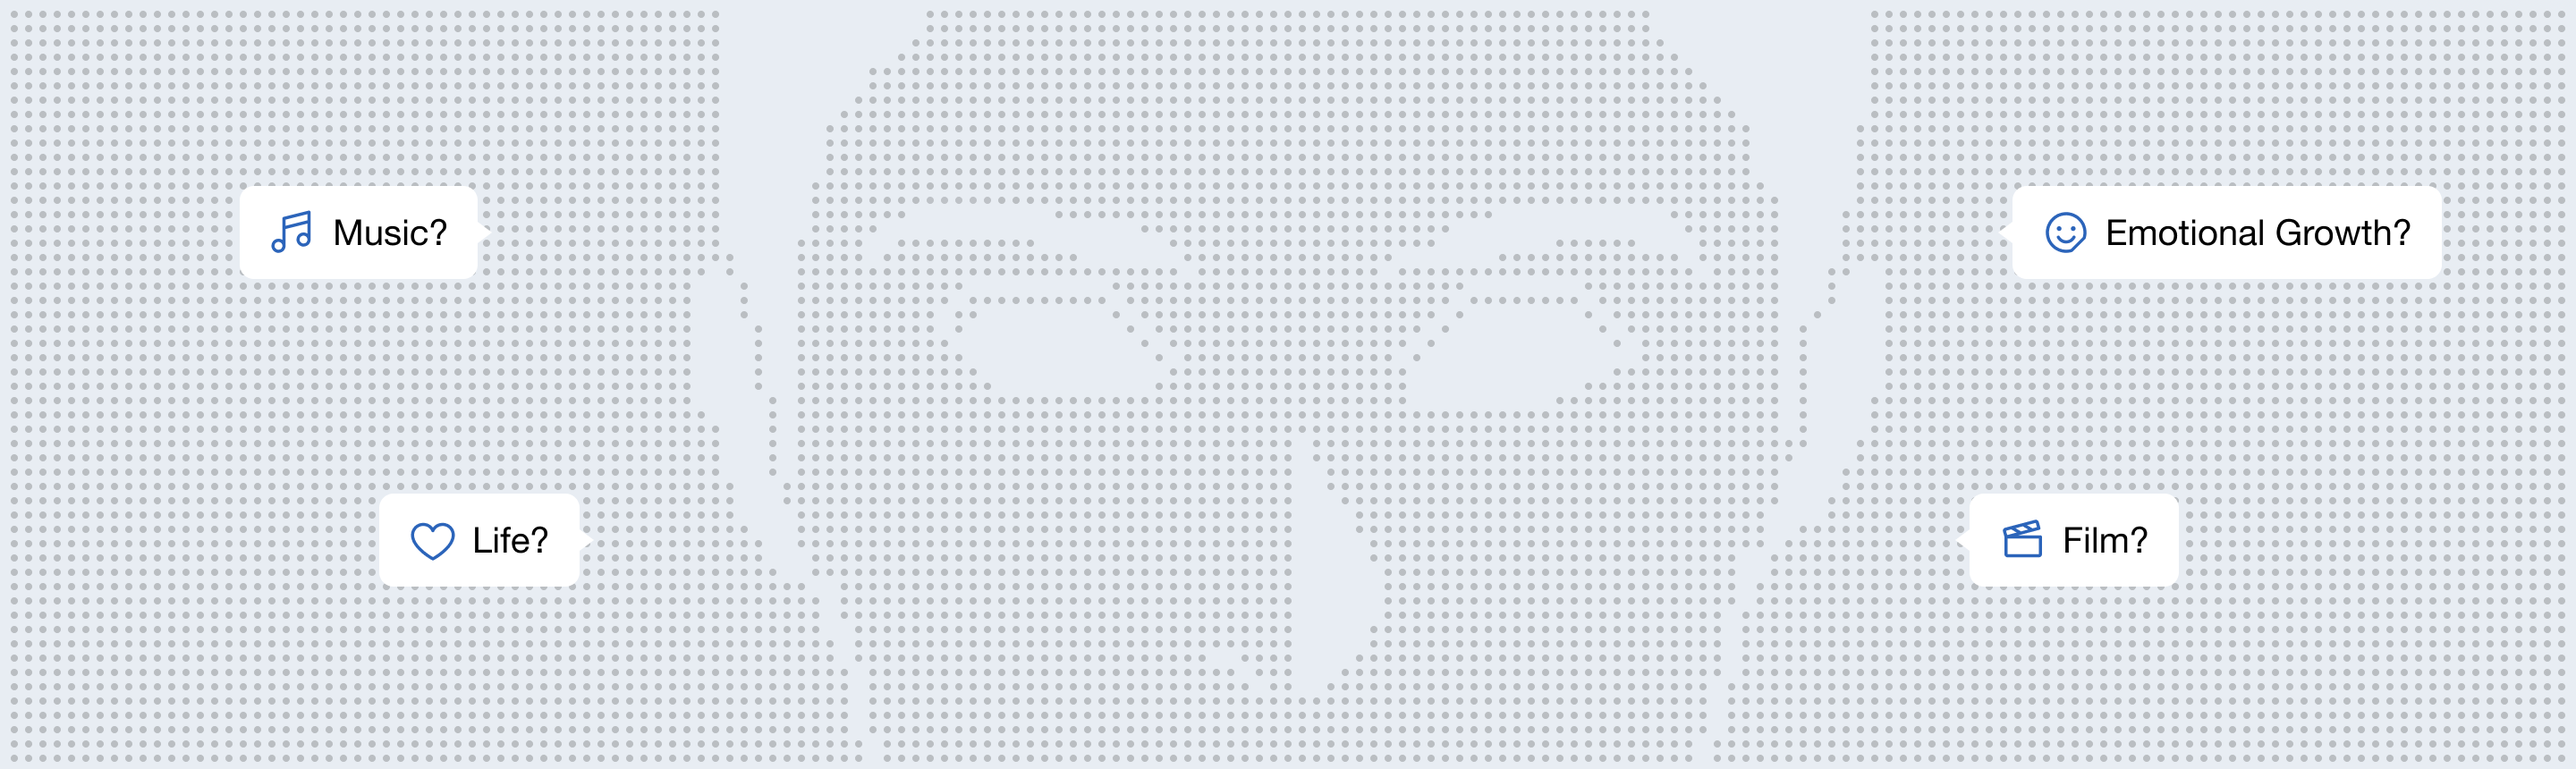
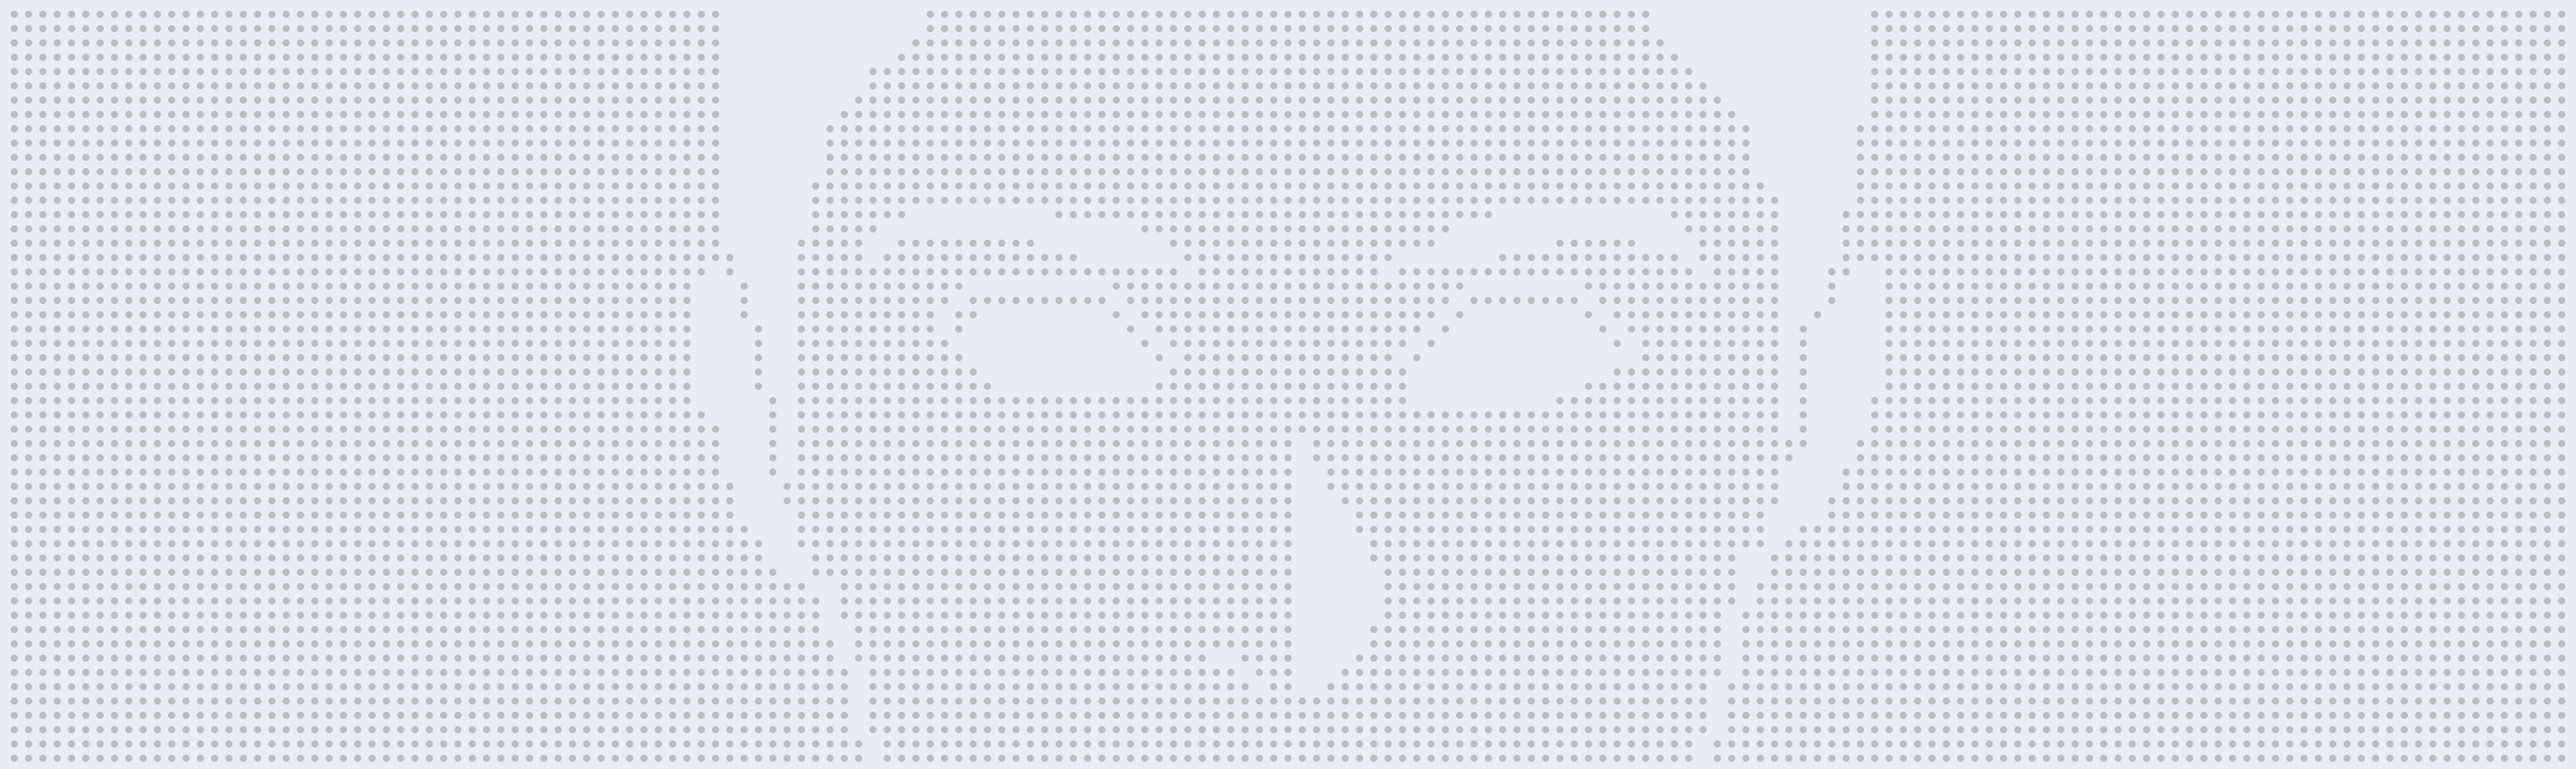
pip bubbles

diff --git a/src/app/paper/page.js b/src/app/paper/page.js
@@ -4,13 +4,14 @@ import React, { Suspense, useState, useRef, useEffect } from "react";
 import { useSearchParams, useRouter } from "next/navigation";
 import gsap from "gsap";
 import Image from "next/image";
+import CustomButton from "@/components/custom-button";
 
 const Content = () => {
   const router = useRouter();
   const searchParams = useSearchParams();
 
   const [currentTab, setCurrentTab] = useState(
-    searchParams.get("tab") || "features",
+    searchParams.get("tab") || "features"
   );
   const [displayedTab, setDisplayedTab] = useState(currentTab);
 
@@ -52,45 +53,47 @@ const Content = () => {
 
   return (
     <div className="flex" style={{ height: "calc(100vh - 100px)" }}>
-      <div className="w-1/6 ">
-        <div className="flex flex-col p-4 text-[12px] text-cblack-100 gap-1 mt-12 border-t border-b border-cblack-25">
-          <h2 className="font-bold">AEJO AGENT TERMINAL</h2>
-          <p className="opacity-50">UPDATED: nov 26, 2024</p>
-          <p className="opacity-50">v1.4</p>
+      <div className="w-1/6 flex flex-col justify-between">
+        <div>
+          <div className="flex flex-col p-4 text-[12px] text-cblack-100 gap-1 mt-12 border-t border-b border-cblack-25">
+            <h2 className="font-bold">AEJO AGENT TERMINAL</h2>
+            <p className="opacity-50">UPDATED: nov 26, 2024</p>
+            <p className="opacity-50">v1.4</p>
+          </div>
+
+          <ul>
+            <li
+              onClick={() => handleTabChange("features")}
+              className={`flex cursor-pointer text-cblack-100 p-4 border-b border-cblack-25 gap-2 ${
+                currentTab === "features" ? "font-bold" : ""
+              }`}
+            >
+              <span className="opacity-30">01</span>
+              <p className="text-cblack-100">Features</p>
+            </li>
+            <li
+              onClick={() => handleTabChange("model")}
+              className={`flex cursor-pointer text-cblack-100 p-4 border-b border-cblack-25 gap-2 ${
+                currentTab === "model" ? "font-bold" : ""
+              }`}
+            >
+              <span className="opacity-30">02</span>
+              <p className="text-cblack-100">Model</p>
+            </li>
+            <li
+              onClick={() => handleTabChange("monitor")}
+              className={`flex cursor-pointer text-cblack-100 p-4 border-b border-cblack-25 gap-2 ${
+                currentTab === "monitor" ? "font-bold" : ""
+              }`}
+            >
+              <span className="opacity-30">03</span>
+              <p className="text-cblack-100">Monitor</p>
+            </li>
+          </ul>
         </div>
 
-        <ul>
-          <li
-            onClick={() => handleTabChange("features")}
-            className={`flex cursor-pointer text-cblack-100 p-4 border-b border-cblack-25 gap-2 ${
-              currentTab === "features" ? "font-bold" : ""
-            }`}
-          >
-            <span className="opacity-30">01</span>
-            <p className="text-cblack-100">Features</p>
-          </li>
-          <li
-            onClick={() => handleTabChange("model")}
-            className={`flex cursor-pointer text-cblack-100 p-4 border-b border-cblack-25 gap-2 ${
-              currentTab === "model" ? "font-bold" : ""
-            }`}
-          >
-            <span className="opacity-30">02</span>
-            <p className="text-cblack-100">Model</p>
-          </li>
-          <li
-            onClick={() => handleTabChange("monitor")}
-            className={`flex cursor-pointer text-cblack-100 p-4 border-b border-cblack-25 gap-2 ${
-              currentTab === "monitor" ? "font-bold" : ""
-            }`}
-          >
-            <span className="opacity-30">03</span>
-            <p className="text-cblack-100">Monitor</p>
-          </li>
-        </ul>
-        <div className="text-black">
-          
-          
+        <div className="text-black p-5 border-t border-cblack-25">
+          <CustomButton text="TWITTER" withIcon={true} href="/" />
         </div>
       </div>
 
@@ -135,9 +138,7 @@ const Content = () => {
                 </div>
               </div>
               <div className="flex w-full">
-                <div className="w-1/2 bg-cblack-25">
-                  {/*  */}
-                </div>
+                <div className="w-1/2 bg-cblack-25">{/*  */}</div>
                 <div className="w-1/2 bg-cblack-25 border-l border-cblack-35">
                   <button
                     className="group flex flex-col w-full p-8 justify-center h-full text-start items-start"

diff --git a/src/components/hero/index.js b/src/components/hero/index.js
@@ -1,10 +1,50 @@
 import React from "react";
 import { Button } from "../ui/button";
 import Image from "next/image";
+import Bubble from "../bubble";
+
+const bubbles = [
+  {
+    imageSrc: "/icons/MusicNotes.svg",
+    text: "Music?",
+    type: "left",
+    position: { top: "25%", left: "16%" },
+  },
+  {
+    imageSrc: "/icons/Heart.svg",
+    text: "Life?",
+    type: "right",
+    position: { top: "50%", right: "18%" },
+  },
+  {
+    imageSrc: "/icons/SmileySticker.svg",
+    text: "Emotional Growth?",
+    type: "right",
+    position: { top: "25%", right: "10%" },
+  },
+  {
+    imageSrc: "/icons/FilmSlate.svg",
+    text: "Film?",
+    type: "left",
+    position: { top: "50%", left: "20%" },
+  },
+];
 
 const Hero = () => {
   return (
-    <div className="flex flex-col items-center justify-center text-center text-black">
+    <div className="relative flex flex-col items-center justify-center text-center text-black">
+      <div className="absolute top-0 right-0 z-10 w-full h-[400px]">
+        {bubbles.map((bubble, index) => (
+          <Bubble
+            key={index}
+            imageSrc={bubble.imageSrc}
+            text={bubble.text}
+            type={bubble.type}
+            position={bubble.position}
+          />
+        ))}
+      </div>
+
       <div>
         <Image
           src="/images/hero.png"
@@ -13,16 +53,21 @@ const Hero = () => {
           height={400}
         />
       </div>
+
       <div className="relative">
-        <Button className="absolute -top-[30px] left-1/2 transform -translate-x-1/2 px-9 py-6 text-white rounded-sm">
-          <Image
-            src="/icons/ChatTeardrop.svg"
-            alt="Coin Vertical Logo"
-            width={20}
-            height={20}
-          />
-          CHAT NOW
-        </Button>
+        {/* <div className=" absolute -top-[30px] left-1/2 transform -translate-x-1/2 p-1 rounded-sm bg-blue-600"> */}
+        <div className=" absolute -top-[30px] left-1/2 transform -translate-x-1/2 p-1 rounded-sm ">
+          <Button className="  px-9 py-6 text-white rounded-sm">
+            <Image
+              src="/icons/ChatTeardrop.svg"
+              alt="Coin Vertical Logo"
+              width={20}
+              height={20}
+            />
+            CHAT NOW
+          </Button>
+        </div>
+
         <h1 className="text-4xl uppercase font-bold mb-2 py-24">
           The AI That Thinks Along Side Us All
         </h1>

diff --git a/src/components/bubble/index copy.js b/src/components/bubble/index copy.js
@@ -1,0 +1,45 @@
+"use client"
+import React, { useEffect, useState } from "react";
+
+const Bubble = ({ 
+  imageSrc, 
+  text, 
+  type = "left", 
+  position = { top: "50%", left: "50%" } 
+}) => {
+  const tailStyle = type === "left" 
+    ? "right-[-8px] top-1/2 -translate-y-1/2 border-y-[10px] border-y-transparent border-l-[10px] border-l-[#fff]"
+    : "left-[-8px] top-1/2 -translate-y-1/2 border-y-[10px] border-y-transparent border-r-[10px] border-r-[#fff]";
+
+  const [animationOffset, setAnimationOffset] = useState({ top: 0, left: 0 });
+
+  useEffect(() => {
+    const animate = () => {
+      setAnimationOffset({
+        top: Math.random() * 2 - 1, 
+        left: Math.random() * 2 - 1, 
+      });
+    };
+
+    const interval = setInterval(animate, 1000);
+    return () => clearInterval(interval); 
+  }, []);
+
+  return (
+    <div
+      className="absolute flex items-center gap-2 px-4 py-2 bg-[#fff] text-cblack-100 rounded-lg shadow-md transition-transform duration-1000 ease-in-out"
+      style={{
+        ...position,
+        transform: `translate(${animationOffset.left}px, ${animationOffset.top}px)`,
+      }}
+    >
+      <img src={imageSrc} alt="Bubble Icon" className="w-6 h-6" />
+
+      <span>{text}</span>
+
+      <div className={`absolute ${tailStyle}`}></div>
+    </div>
+  );
+};
+
+export default Bubble;

diff --git a/src/components/custom-button/index.js b/src/components/custom-button/index.js
@@ -1,11 +1,35 @@
-// import React from 'react'
+import React from "react";
+import Link from "next/link";
+import Image from "next/image";
 
-// const CustomButton = () => {
-//   return (
-//     <div>
-      
-//     </div>
-//   )
-// }
+const CustomButton = ({
+  text,
+  type = "white",
+  withIcon = false,
+  href = "#",
+}) => {
+  const buttonClass =
+    type === "dark"
+      ? "bg-inherit text-white "
+      : "bg-inherit text-black  border border-gray-300 hover:border-gray-400 hover:text-gray-800 focus:outline-none focus:ring-2 focus:ring" ;
 
-// export default CustomButton
+  return (
+    <Link
+      href={href}
+      className={`inline-flex w-full items-center justify-center px-2 py-1 rounded-md font-medium text-[12px] transition-all duration-300 gap-2 ${buttonClass}`}
+    >
+      {text}
+      {withIcon && (
+        <Image
+          src="/icons/ArrowUpRight.svg"
+          alt="Arrow Icon"
+          className=""
+          width={14}
+          height={14}
+        />
+      )}
+    </Link>
+  );
+};
+
+export default CustomButton;

diff --git a/src/components/bubble/index.js b/src/components/bubble/index.js
@@ -1,0 +1,28 @@
+
+const Bubble = ({ 
+  imageSrc, 
+  text, 
+  type = "left", 
+  position = { top: "50%", left: "50%" } 
+}) => {
+  const tailStyle = type === "left" 
+    ? "right-[-8px] top-1/2 -translate-y-1/2 border-y-[10px] border-y-transparent border-l-[10px] border-l-[#fff]"
+    : "left-[-8px] top-1/2 -translate-y-1/2 border-y-[10px] border-y-transparent border-r-[10px] border-r-[#fff]";
+
+  return (
+    <div
+      className="absolute flex items-center gap-2 px-4 py-2 bg-[#fff] text-cblack-100 rounded-lg shadow-md animate-float"
+      style={{ ...position }}
+    >
+      <img src={imageSrc} alt="Bubble Icon" className="w-6 h-6" />
+
+      <span>{text}</span>
+
+      <div
+        className={`absolute ${tailStyle}`}
+      ></div>
+    </div>
+  );
+};
+
+export default Bubble;

diff --git a/src/components/header/index.js b/src/components/header/index.js
@@ -4,7 +4,7 @@ import React from "react";
 
 const Header = () => {
   return (
-    <header className="text-black bg-wild-100 px-14 py-6 sticky top-0 z-10">
+    <header className="text-black bg-wild-100 px-14 py-6 sticky top-0 z-50">
       <div className="w-full flex justify-between items-center">
         <h1 className="text-2xl font-bold text-primary-foreground">
           <Link href="/" className="text-cblack-100">

diff --git a/tailwind.config.js b/tailwind.config.js
@@ -80,7 +80,7 @@ module.exports = {
           35: "#ebebeb",
           50: "#2E2E2E",
           100: "#1a1a1a",
-        }
+        },
       },
       borderRadius: {
         lg: "var(--radius)",

diff --git a/src/app/globals.css b/src/app/globals.css
@@ -154,3 +154,9 @@ body {
 .li {
   cursor: pointer;
 }
+
+/*  */
+/*  */
+/*  */
+/*  */
+
